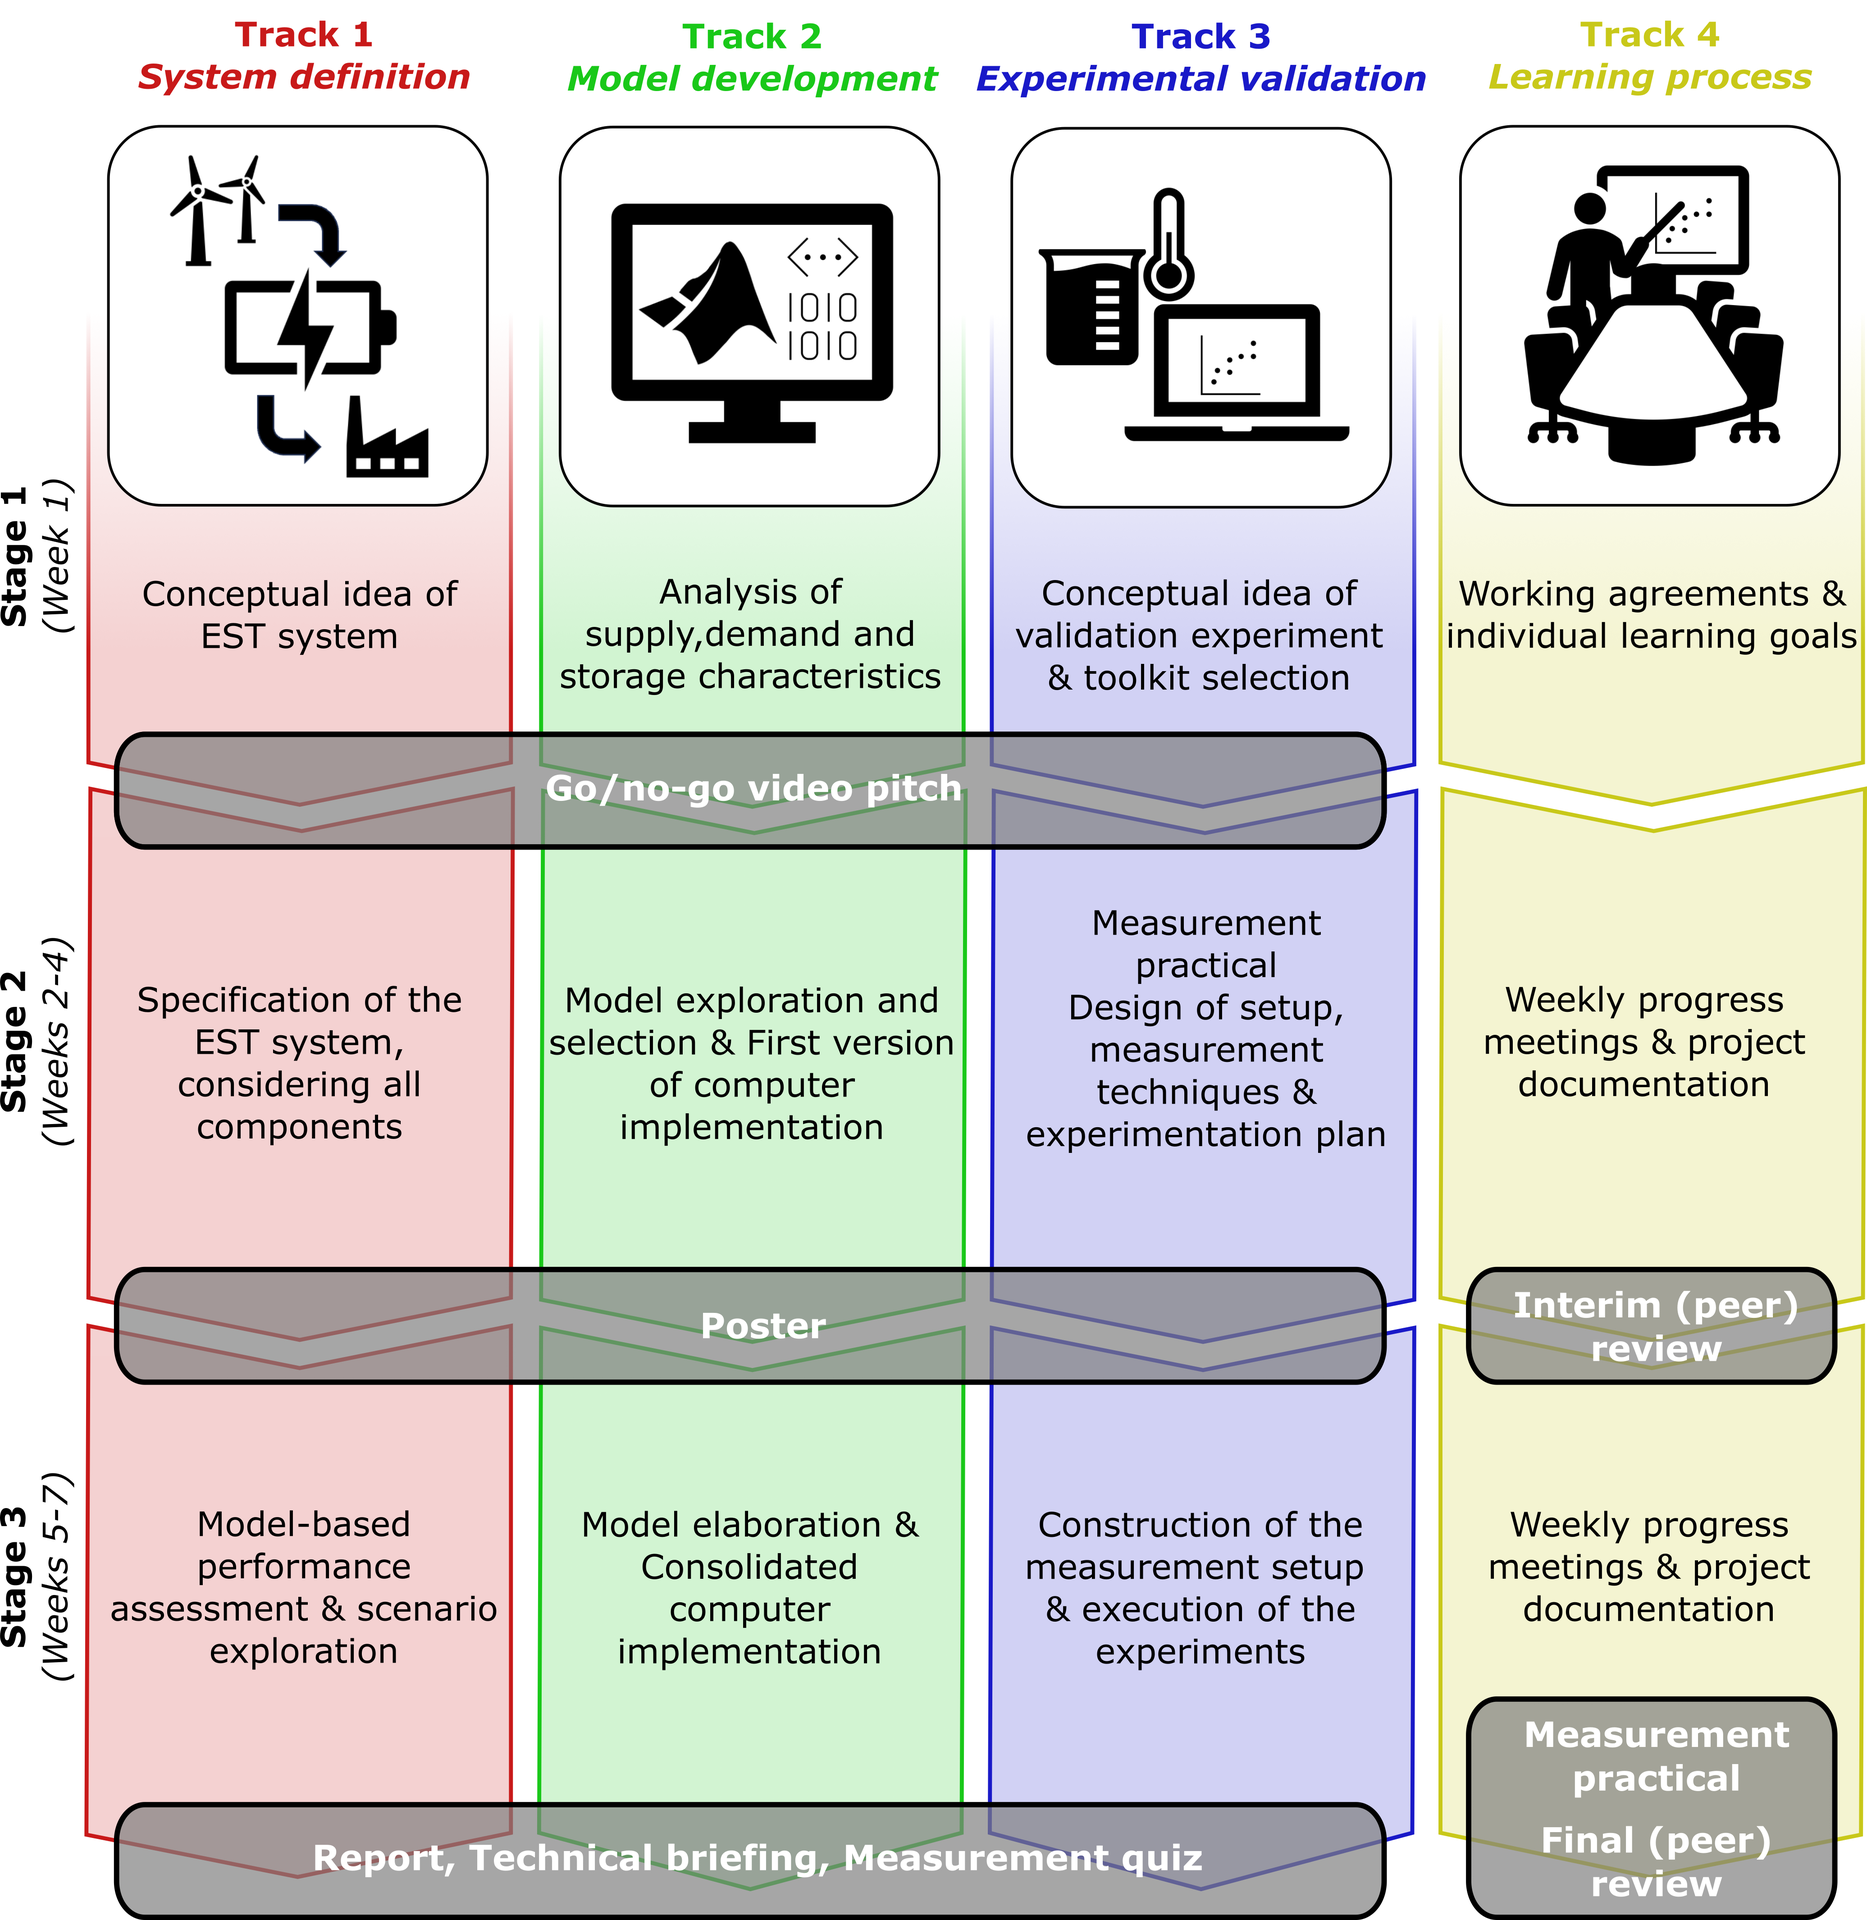
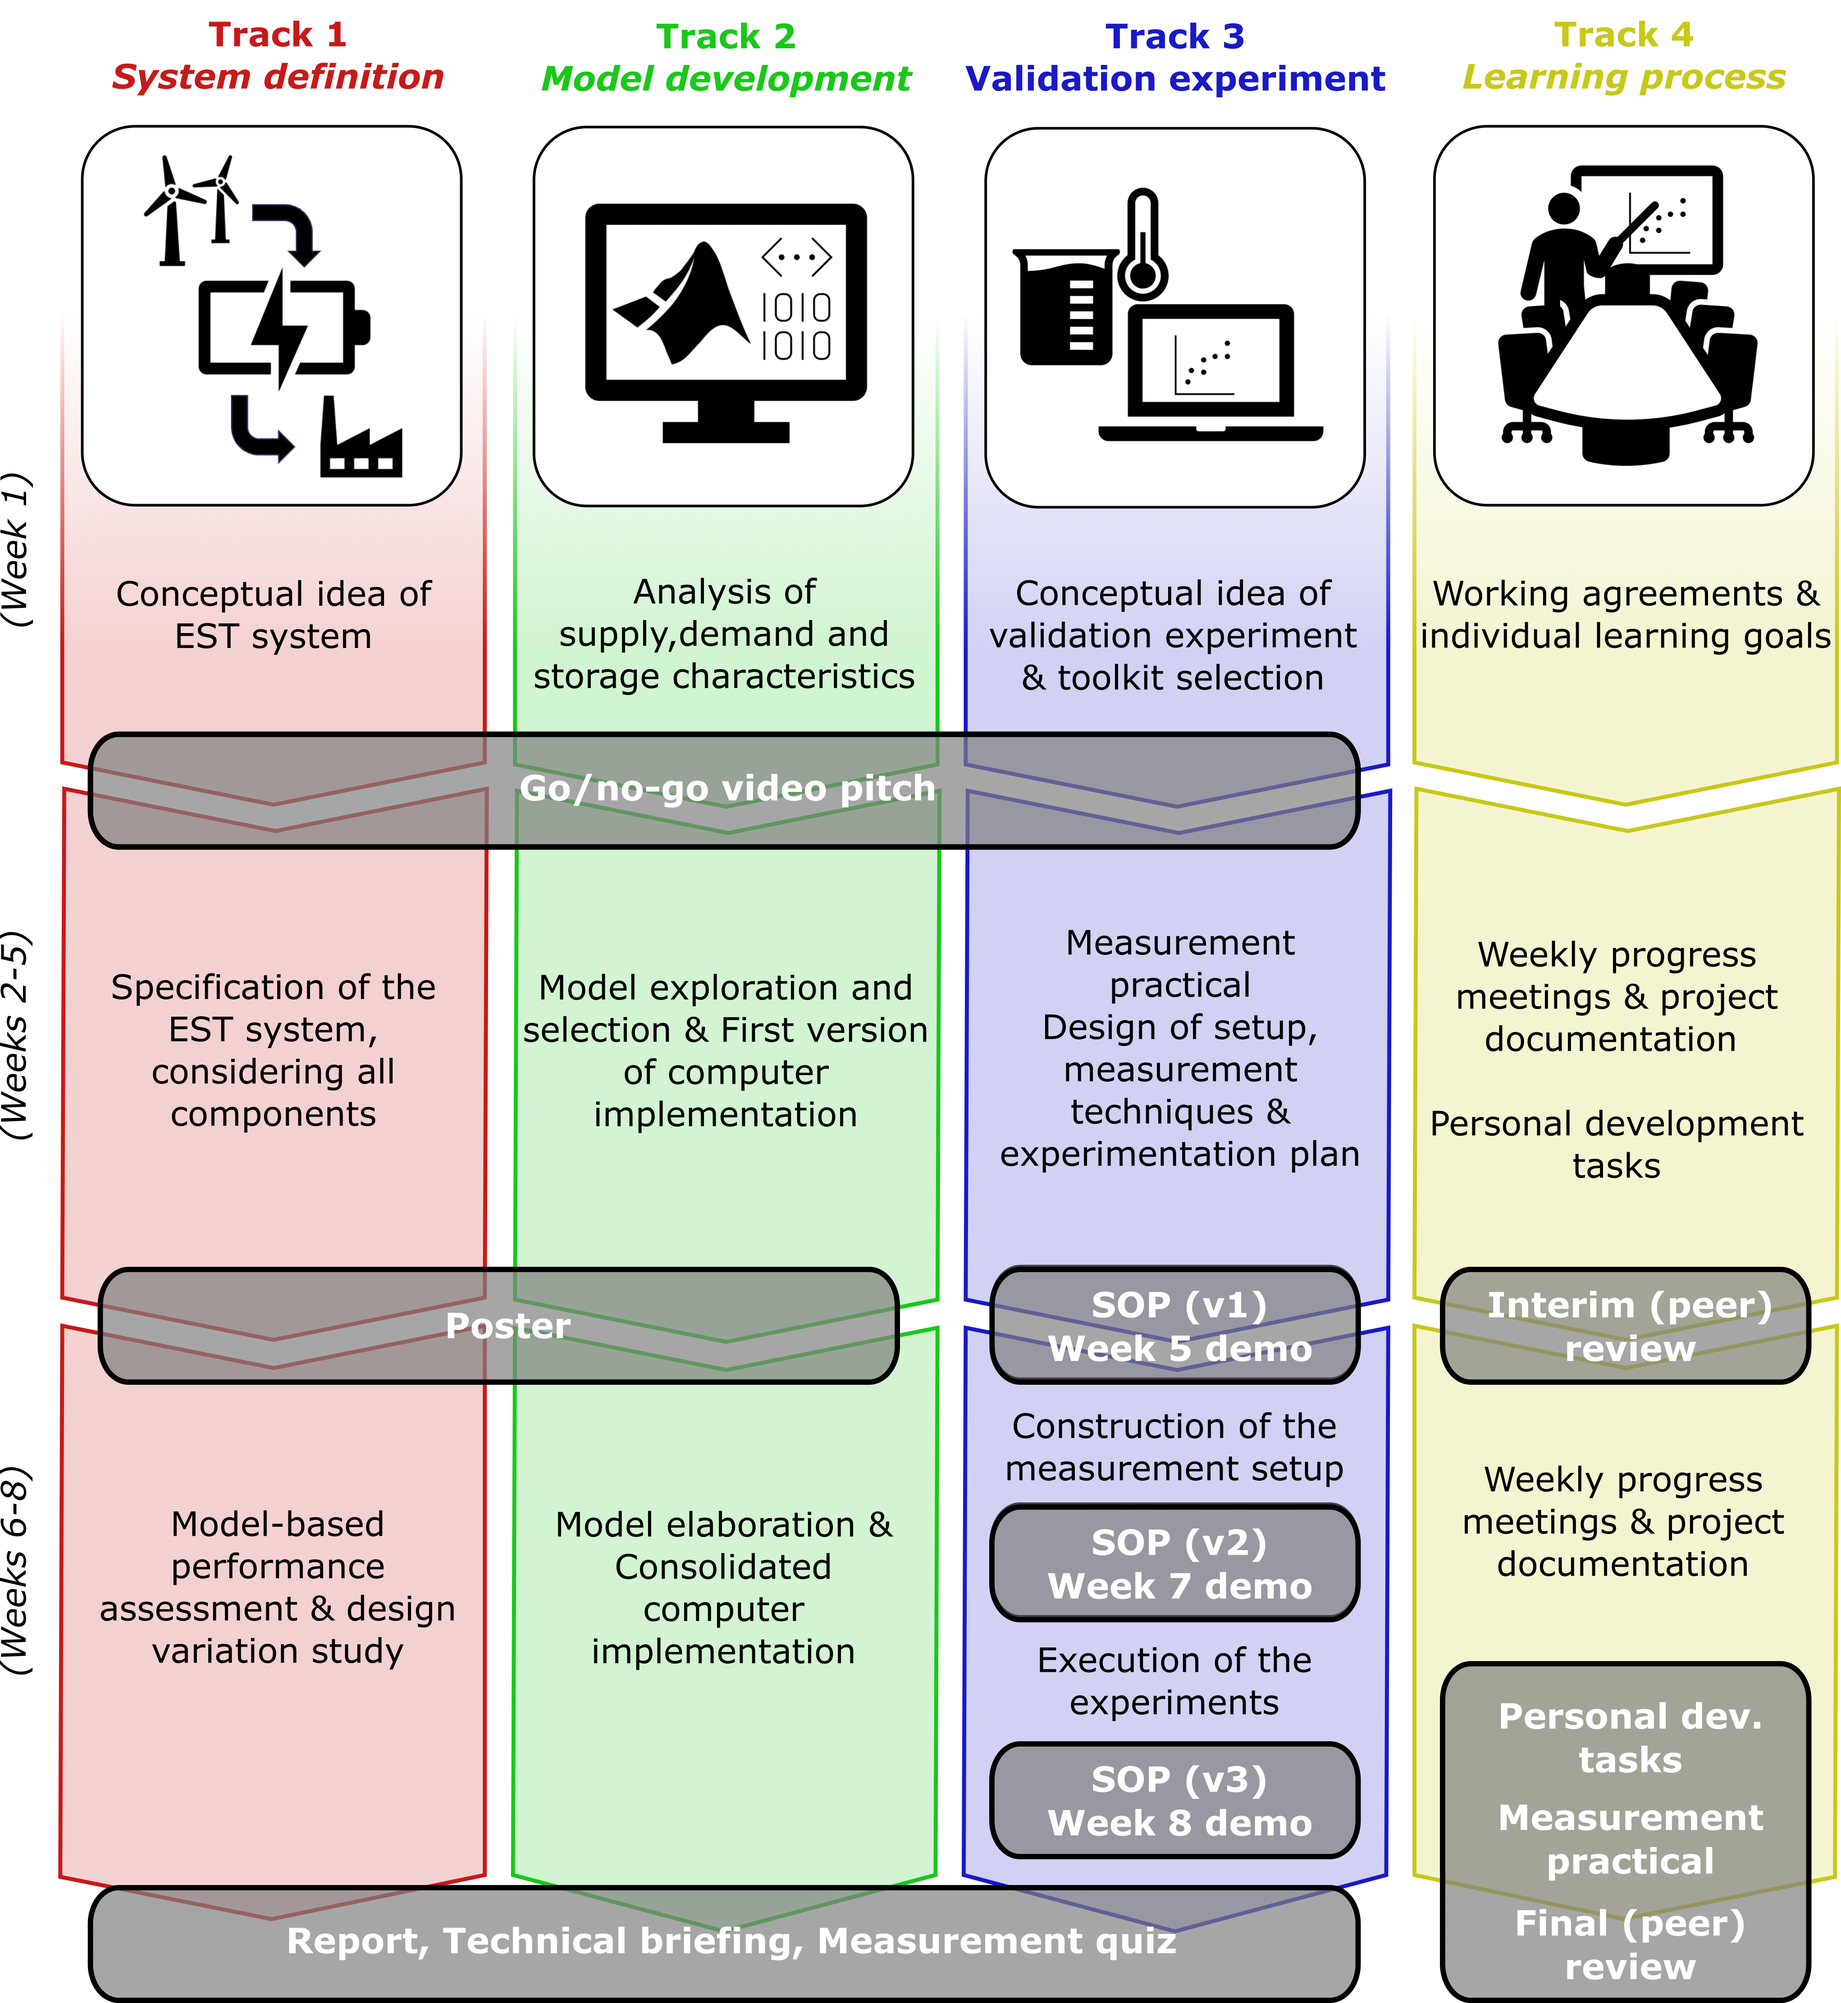
Updated tracks graphic

diff --git a/index.html b/index.html
@@ -73,7 +73,7 @@
     
     <div class="block challenge">
       <p>
-        Your team is working in the R&D department of an oil & gas company. The company's ambition is to transform into a sustainable energy company. In order to ignite this transition, various teams in the company, including yours, are asked to come up with <em>innovative energy storage and transport initiatives</em>. In 7 weeks time, you are asked to deliver an objective assessment of the developed idea. The company representatives are not interested in listening to sales pitches, but instead want a <em>science-based analysis based on a validated model</em>. 
+        Your team is working in the R&D department of an oil & gas company. The company's ambition is to transform into a sustainable energy company. In order to ignite this transition, various teams in the company, including yours, are asked to come up with <em>innovative energy storage and transport initiatives</em>. In 8 weeks time, you are asked to deliver an objective assessment of the developed idea. The company representatives are not interested in listening to sales pitches, but instead want a <em>science-based analysis based on a validated model</em>. 
         </p>
     </div>
 
@@ -569,13 +569,8 @@
       </small>
     </p>
 
-    <h4>Planning</h4> <!--//TODO: Move to week planning-->
-    <p>
-      Your group is responsible for developing and maintaining the planning and documentation of your project. The deadlines for all assignments can be found on Canvas. In agreement with your tutor you can decide on how to share documents.
-    </p> 
-
-    <!--PROJECT TRACKS AND STAGES-->
-    <h2 id="stages">Project tracks and stages</h2>
+    <!--PROJECT TRACKS-->
+    <h2 id="tracks">Project tracks</h2>
     <p>The overarching project goal is to propose an Energy Storage and Transport (EST) system based on a validated model. The proposed EST system should be designed for your team's supply and demand:</p>
     
     <div>
@@ -603,7 +598,7 @@
       </table>
     </div>
 
-    <p>The project is organized in four parallel, interconnected, tracks. Each track progresses in three stages:</p>
+    <p>The project is organized in four parallel, interconnected, tracks:</p>
 
     <figure>
     <img src="assets/stages.png" alt="Tracks and stages" style="width:100%">
@@ -873,6 +868,14 @@
         <li>Do your tasks allow you to work on the feedback obtained in the mid-term evaluation?</li>
       </ul>
     </div>
+
+    <!--STUDY GUIDE-->
+    <h2 id="studyguide">Project study guide</h2>
+    <p>
+      This study guide outlines the steps to be taken in the project. <em>Your group is responsible for planning the activities leading to the project goals and deliverables.</em>
+    </p> 
+
+    <p>Coming soon</p> <!--//TODO: Add week planning-->
 
     <!--SCRIPTS AT END OF BODY-->
     <script src="https://ajax.googleapis.com/ajax/libs/jquery/1.12.4/jquery.min.js" type="text/javascript"></script>
